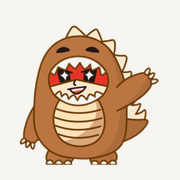
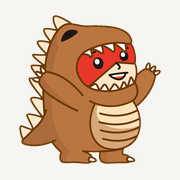
マスコット刷新＋「不用品処分」を「お庭の剪定・草刈り」へ全面入れ替え
- 新キャラクター画像に差し替え（背景透過処理・favicon/アイコン再生成）
- 個人ページ: 不用品処分セクションをチラシ準拠のお庭の剪定・草刈りセクションに変更
  （お悩み例・対応作業タグ・担当:山本の紹介・フリーダイヤル0120-542-587）
- 「不用品」表現をサイト全体から削除し「お片付け・運搬」等に置き換え
- 全ページのフッターと会社概要に許可番号（熊本市一般廃棄物収集運搬業許可
  第21RH-82号）・東京海上日動 貨物賠償保険・フリーダイヤルを追加
- お問い合わせ: チェックボックスとFAQをお庭・お片付け向けに更新

Claude-Session: https://claude.ai/code/session_01SCBWucPwkj8HPJY767A5GM

diff --git a/person.html b/person.html
@@ -4,12 +4,12 @@
 <meta charset="utf-8">
 <meta name="viewport" content="width=device-width, initial-scale=1">
 <title>個人のお客様｜カーゴレックス（熊本のお引越し・生活支援）</title>
-<meta name="description" content="お引越し・不用品処分・エアコン工事・ハウスクリーニング・草取りや庭のお手入れまで。熊本のカーゴレックスがお客様の日常の「困った」にお応えします。">
+<meta name="description" content="お庭の剪定・草刈りからお引越し・エアコン工事・ハウスクリーニングまで。熊本のカーゴレックスがお客様の日常の「困った」にお応えします。">
 <link rel="canonical" href="https://konohito.github.io/cargolex-hp/person.html">
 <meta property="og:type" content="website">
 <meta property="og:site_name" content="カーゴレックス">
 <meta property="og:title" content="個人のお客様｜カーゴレックス">
-<meta property="og:description" content="お引越し・不用品処分・エアコン・クリーニング・草取り。日常の「困った」にお応えします。">
+<meta property="og:description" content="お庭の剪定・草刈り・お引越し・エアコン・クリーニング。日常の「困った」にお応えします。">
 <meta property="og:url" content="https://konohito.github.io/cargolex-hp/person.html">
 <meta property="og:image" content="https://konohito.github.io/cargolex-hp/assets/img/og-image.jpg">
 <meta property="og:locale" content="ja_JP">
@@ -139,25 +139,39 @@
 </section>
 
 <section class="wrap sec">
-  <div style="display:flex;align-items:baseline;gap:18px;flex-wrap:wrap"><h2 class="h2">不用品処分のお手伝い</h2><span class="kick">Disposal</span></div>
-  <p class="lead">お引越しの際にいらなくなった家財や、一人では運べない不用品等の処分のお手伝いを致します。</p>
-  <div class="cells">
-    <div class="cell">建て替えや、解体前に全ての家財を処分したい。</div>
-    <div class="cell">引越しの際、いらなくなった家財を処分したい。</div>
-    <div class="cell">一人では運べないほどの重さがある。</div>
-    <div class="cell">物置を解体して処分してほしい。</div>
-    <div class="cell">新しい家電を買ったので古いものを処分したい。</div>
-    <div class="cell">思い切って断捨離をしたい。</div>
-    <div class="cell">粗大ゴミを捨てる場まで運んで欲しい。</div>
-    <div class="cell">切った枝木をまとめて処分してほしい。</div>
-    <div class="cell">故人の遺品整理を手伝って欲しい。</div>
+  <div style="display:flex;align-items:baseline;gap:18px;flex-wrap:wrap"><h2 class="h2">お庭の剪定・草刈り</h2><span class="kick">Garden</span></div>
+  <p class="lead">「雑草・枝が伸び放題…」のお庭、スッキリ・キレイにしませんか？刈った草や枝の処分まで含めてお引き受けします。</p>
+  <div class="split" style="grid-template-columns:1fr 1fr;gap:44px">
+    <div>
+      <div class="kick" style="margin-bottom:14px">お庭のこんなお悩みありませんか？</div>
+      <div class="row">草取りをしないと虫が出てしまう…。</div>
+      <div class="row">木がお隣まで伸びてしまっている…。</div>
+      <div class="row">昔は枝切りもしていたけれど、今はもうできなくなった…。</div>
+      <div class="row">空き地・駐車場・畑の草を定期的に刈ってほしい。</div>
+      <div class="row">実家や空き家のお庭の手入れを代わりにしてほしい。</div>
+      <div class="row" style="border-bottom:1px solid var(--color-divider)">刈った草や切った枝の処分までお願いしたい。</div>
+    </div>
+    <div>
+      <div class="kick" style="margin-bottom:14px">対応できる作業</div>
+      <div style="display:flex;gap:8px;flex-wrap:wrap">
+        <span class="tag tag-outline">草取り</span><span class="tag tag-outline">草刈り</span><span class="tag tag-outline">枝切</span><span class="tag tag-outline">剪定</span><span class="tag tag-outline">伐採</span><span class="tag tag-outline">除草剤散布</span><span class="tag tag-outline">防草シート</span><span class="tag tag-outline">ハチの巣駆除</span><span class="tag tag-outline">庭の片付け</span><span class="tag tag-outline">物置撤去・解体</span>
+      </div>
+      <div class="blueprint" style="padding:22px 24px;background:var(--color-neutral-100);margin-top:22px">
+        <i class="corner tl"></i><i class="corner tr"></i><i class="corner bl"></i><i class="corner br"></i>
+        <p style="font-size:14px;line-height:2;margin:0">担当の山本が、お客様の「困った…」を親身になってお聞きします。引越しやエアコン工事など「ついでにこれも頼みたい」も大歓迎。<strong>「お庭の件で」</strong>とお気軽にお問い合わせください。</p>
+        <a href="tel:0120542587" style="display:grid;line-height:1.05;color:var(--color-text);margin-top:14px">
+          <span style="font-size:11px;letter-spacing:.16em;color:var(--color-accent-700)">フリーダイヤル（通話無料）</span>
+          <span style="font-family:'Barlow Condensed',sans-serif;font-weight:700;font-size:34px;letter-spacing:.02em;margin-top:4px">0120-542-587</span>
+        </a>
+      </div>
+    </div>
   </div>
-  <p style="font-size:12.5px;line-height:1.85;margin-top:18px;opacity:.68">※ 鉄・紙・家電・衣類等の仕分けを事前に行っていただけると当日の作業がスムーズに進みます。</p>
+  <p style="font-size:12.5px;line-height:1.85;margin-top:18px;opacity:.68">※ お見積り・ご相談は無料です。熊本市一般廃棄物収集運搬業許可（第21RH-82号）／東京海上日動 貨物賠償保険加入。</p>
 </section>
 
 <section class="wrap sec">
   <div style="display:flex;align-items:baseline;gap:18px;flex-wrap:wrap"><h2 class="h2">暮らしのサービス</h2><span class="kick">Life support</span></div>
-  <p class="lead">エアコンからお庭のお手入れ、住まいの修繕まで。気になったことをお任せください。</p>
+  <p class="lead">エアコンからお片付け、住まいの修繕まで。気になったことをお任せください。</p>
   <div class="g2">
     <article class="card blueprint detail">
       <i class="corner tl"></i><i class="corner tr"></i><i class="corner bl"></i><i class="corner br"></i>
@@ -179,9 +193,9 @@
     </article>
     <article class="card blueprint detail">
       <i class="corner tl"></i><i class="corner tr"></i><i class="corner bl"></i><i class="corner br"></i>
-      <div class="card-kicker" style="color:var(--red7)">Garden</div>
-      <h3>草取り・庭のお手入れ</h3>
-      <p>ご希望の箇所をきれいにいたします。草取りや草刈り、剪定や防草シートの設置・植木の剪定もいたします。刈った草の処分まで含めてお引き受けします。</p>
+      <div class="card-kicker" style="color:var(--red7)">Tidy up</div>
+      <h3>お片付け・運搬のお手伝い</h3>
+      <p>お部屋やお庭の片付け、家具の移動、一人では運べない大きな荷物の運搬をお手伝いします。物置の撤去・解体もお任せください。</p>
     </article>
     <article class="card blueprint detail">
       <i class="corner tl"></i><i class="corner tr"></i><i class="corner bl"></i><i class="corner br"></i>
@@ -203,7 +217,7 @@
     <div style="display:flex;align-items:baseline;gap:18px;flex-wrap:wrap">
       <h2 class="h2" style="color:#fff">お任せください！！</h2>
       <span class="kick" style="color:var(--color-accent-300)">Leave it to us</span>
-      <img src="assets/img/mascot.png" alt="カーゴレックスのマスコット" width="513" height="460" loading="lazy" style="width:96px;height:auto;margin-left:auto">
+      <img src="assets/img/mascot.png" alt="カーゴレックスのマスコット" width="437" height="460" loading="lazy" style="width:96px;height:auto;margin-left:auto">
     </div>
     <p style="font-size:17px;line-height:2;margin:22px 0 0;max-width:60ch;color:rgba(238,241,236,.86)">「困ったなぁ」「自分でやったら大変だなぁ」「こんなことどこに頼めばいいんだろう」。普段の暮らしの中でこんなちょっとしたことが気になること、カーゴレックスにお任せください。</p>
   </div>
@@ -267,13 +281,13 @@
     <div class="split" style="gap:56px">
       <div>
         <div style="display:flex;align-items:center;gap:12px">
-          <img src="assets/img/mascot.png" alt="" width="513" height="460" loading="lazy" style="width:56px;height:56px;object-fit:contain">
+          <img src="assets/img/mascot.png" alt="" width="437" height="460" loading="lazy" style="width:56px;height:56px;object-fit:contain">
           <span style="display:grid;line-height:1.05">
             <span style="font-size:10px;letter-spacing:.18em;color:var(--color-accent-300)">カーゴレックス</span>
             <span style="font-family:'Barlow Condensed',sans-serif;font-weight:700;font-size:27px;letter-spacing:.02em">CARGOLEX</span>
           </span>
         </div>
-        <p style="font-size:13.5px;line-height:1.95;margin:22px 0 0;color:rgba(238,241,236,.72)">〒861-4206 熊本県熊本市南区<br>TEL. 080-3978-0369<br>営業時間 8:00〜20:00（年中無休）</p>
+        <p style="font-size:13.5px;line-height:1.95;margin:22px 0 0;color:rgba(238,241,236,.72)">〒861-4206 熊本県熊本市南区<br>フリーダイヤル 0120-542-587／TEL. 080-3978-0369<br>営業時間 8:00〜20:00（年中無休）<br>熊本市一般廃棄物収集運搬業許可（第21RH-82号）<br>東京海上日動 貨物賠償保険加入</p>
         <div style="display:flex;gap:18px;flex-wrap:wrap;margin-top:22px;font-size:13px">
           <a href="index.html" style="color:var(--color-accent-300)">トップページ</a>
           <a href="business.html" style="color:var(--color-accent-300)">法人のお客様</a>

diff --git a/index.html b/index.html
@@ -4,7 +4,7 @@
 <meta charset="utf-8">
 <meta name="viewport" content="width=device-width, initial-scale=1">
 <title>カーゴレックス｜熊本の軽貨物運送支援・生活支援サービス</title>
-<meta name="description" content="熊本県を中心に軽貨物運送支援事業と生活支援サービス事業を行うカーゴレックス。チャーター便・緊急配達・お引越し・不用品処分など、お客様の「困った」に親切・丁寧・適正価格でお応えします。">
+<meta name="description" content="熊本県を中心に軽貨物運送支援事業と生活支援サービス事業を行うカーゴレックス。チャーター便・緊急配達・お引越し・お庭の剪定・草刈りなど、お客様の「困った」に親切・丁寧・適正価格でお応えします。">
 <link rel="canonical" href="https://konohito.github.io/cargolex-hp/">
 <meta property="og:type" content="website">
 <meta property="og:site_name" content="カーゴレックス">
@@ -143,7 +143,7 @@
       <i class="corner tl"></i><i class="corner tr"></i><i class="corner bl"></i><i class="corner br"></i>
       <img src="assets/img/photo-a.webp" alt="荷台に家財を丁寧に積み込むスタッフ" width="1374" height="778" fetchpriority="high" style="width:100%;height:clamp(300px,42vw,470px);object-fit:cover">
       <figcaption style="position:absolute;left:0;bottom:0;background:var(--color-accent-900);color:#eef1ec;font-size:11px;letter-spacing:.16em;padding:8px 14px;text-transform:uppercase">運び屋 CARGOLEX</figcaption>
-      <img src="assets/img/mascot.png" alt="カーゴレックスのマスコット" width="513" height="460" style="position:absolute;right:-14px;bottom:-18px;width:clamp(96px,13vw,148px);height:auto;filter:drop-shadow(0 6px 14px rgba(0,0,0,.18))">
+      <img src="assets/img/mascot.png" alt="カーゴレックスのマスコット" width="437" height="460" style="position:absolute;right:-14px;bottom:-18px;width:clamp(96px,13vw,148px);height:auto;filter:drop-shadow(0 6px 14px rgba(0,0,0,.18))">
     </figure>
   </div>
 </section>
@@ -239,7 +239,7 @@
         <h3 style="font-size:30px;margin:8px 0 12px">個人のお客様</h3>
         <p style="font-size:14px;line-height:1.9;margin:0 0 16px;opacity:.82">お客様の日常の「困った」に「こんなことどこに頼めばいいの…」にカーゴレックスはお応えします。専門の知識や実績をもった協力店様が作業を行うため、最高峰のサービスと技術をご提供いたします。</p>
         <div style="display:flex;gap:8px;flex-wrap:wrap">
-          <span class="tag tag-outline">お引越し</span><span class="tag tag-outline">不用品処分</span><span class="tag tag-outline">エアコン</span><span class="tag tag-outline">クリーニング</span><span class="tag tag-outline">草取り・剪定</span>
+          <span class="tag tag-outline">お引越し</span><span class="tag tag-outline">お庭の剪定・草刈り</span><span class="tag tag-outline">エアコン</span><span class="tag tag-outline">クリーニング</span><span class="tag tag-outline">お片付け</span>
         </div>
         <div style="margin-top:20px;font-size:14px;font-weight:600;color:var(--color-accent-700)">サービス詳細を見る →</div>
       </div>
@@ -263,7 +263,7 @@
       <div style="border-top:1px solid rgba(238,241,236,.3);padding-top:20px">
         <div class="num" style="color:var(--yl)">02</div>
         <h3 style="font-size:23px;margin:12px 0 10px;color:#fff">運送と生活支援をまとめて</h3>
-        <p style="font-size:13.5px;line-height:1.95;margin:0;color:rgba(238,241,236,.78)">引越しとエアコン移設、不用品の処分まで。業者を何社も探す必要はありません。</p>
+        <p style="font-size:13.5px;line-height:1.95;margin:0;color:rgba(238,241,236,.78)">引越しとエアコン移設、お庭のお手入れやお片付けまで。業者を何社も探す必要はありません。</p>
       </div>
       <div style="border-top:1px solid rgba(238,241,236,.3);padding-top:20px">
         <div class="num" style="color:var(--yl)">03</div>
@@ -368,13 +368,13 @@
     <div class="split" style="gap:56px">
       <div>
         <div style="display:flex;align-items:center;gap:12px">
-          <img src="assets/img/mascot.png" alt="" width="513" height="460" loading="lazy" style="width:56px;height:56px;object-fit:contain">
+          <img src="assets/img/mascot.png" alt="" width="437" height="460" loading="lazy" style="width:56px;height:56px;object-fit:contain">
           <span style="display:grid;line-height:1.05">
             <span style="font-size:10px;letter-spacing:.18em;color:var(--color-accent-300)">カーゴレックス</span>
             <span style="font-family:'Barlow Condensed',sans-serif;font-weight:700;font-size:27px;letter-spacing:.02em">CARGOLEX</span>
           </span>
         </div>
-        <p style="font-size:13.5px;line-height:1.95;margin:22px 0 0;max-width:44ch;color:rgba(238,241,236,.72)">〒861-4206 熊本県熊本市南区<br>TEL. 080-3978-0369<br>営業時間 8:00〜20:00（年中無休）</p>
+        <p style="font-size:13.5px;line-height:1.95;margin:22px 0 0;max-width:44ch;color:rgba(238,241,236,.72)">〒861-4206 熊本県熊本市南区<br>フリーダイヤル 0120-542-587／TEL. 080-3978-0369<br>営業時間 8:00〜20:00（年中無休）<br>熊本市一般廃棄物収集運搬業許可（第21RH-82号）<br>東京海上日動 貨物賠償保険加入</p>
         <div style="display:flex;gap:18px;flex-wrap:wrap;margin-top:22px;font-size:13px">
           <a href="index.html" style="color:var(--color-accent-300)">トップページ</a>
           <a href="business.html" style="color:var(--color-accent-300)">法人のお客様</a>
@@ -388,7 +388,7 @@
       <div>
         <div class="kick" style="color:var(--color-accent-300);margin-bottom:8px">事業内容</div>
         <div class="row" style="border-color:rgba(238,241,236,.24)"><span style="font-size:14px">軽貨物運送支援事業</span><span style="font-size:12.5px;color:rgba(238,241,236,.6)">チャーター便・スポット便・定期便・ハンドキャリー</span></div>
-        <div class="row" style="border-color:rgba(238,241,236,.24);border-bottom:1px solid rgba(238,241,236,.24)"><span style="font-size:14px">生活支援サービス事業</span><span style="font-size:12.5px;color:rgba(238,241,236,.6)">引越し・不用品処分・エアコン・清掃・草取り</span></div>
+        <div class="row" style="border-color:rgba(238,241,236,.24);border-bottom:1px solid rgba(238,241,236,.24)"><span style="font-size:14px">生活支援サービス事業</span><span style="font-size:12.5px;color:rgba(238,241,236,.6)">剪定・草刈り・引越し・エアコン・清掃・お片付け</span></div>
       </div>
     </div>
     <div style="display:flex;justify-content:space-between;gap:16px;flex-wrap:wrap;margin-top:44px;padding-top:18px;border-top:1px solid rgba(238,241,236,.24);font-size:11.5px;color:rgba(238,241,236,.55)">

diff --git a/contact.html b/contact.html
@@ -133,8 +133,8 @@
         <legend style="font-size:12px;margin-bottom:5px;color:rgba(27,33,29,.7);padding:0">お問い合わせ目的（複数選択可）</legend>
         <div class="g2" style="gap:10px;margin-top:2px">
           <label class="chk"><input type="checkbox" name="お問い合わせ目的" value="お引越し"><span>お引越し</span></label>
-          <label class="chk"><input type="checkbox" name="お問い合わせ目的" value="不用品処分"><span>不用品処分</span></label>
-          <label class="chk"><input type="checkbox" name="お問い合わせ目的" value="お庭の草刈り・剪定"><span>お庭の草刈り・剪定</span></label>
+          <label class="chk"><input type="checkbox" name="お問い合わせ目的" value="お庭の剪定・草刈り"><span>お庭の剪定・草刈り</span></label>
+          <label class="chk"><input type="checkbox" name="お問い合わせ目的" value="お片付け・家具移動"><span>お片付け・家具移動</span></label>
           <label class="chk"><input type="checkbox" name="お問い合わせ目的" value="チャーター便"><span>チャーター便</span></label>
           <label class="chk"><input type="checkbox" name="お問い合わせ目的" value="緊急配達・定期便"><span>緊急配達・定期便</span></label>
           <label class="chk"><input type="checkbox" name="お問い合わせ目的" value="その他サービス"><span>その他サービス</span></label>
@@ -171,8 +171,8 @@
         <p style="font-size:14px;line-height:1.95;margin:12px 0 0 26px;opacity:.84">年中無休で受け付けています。なお、お引越し運賃は土曜・日曜・祝祭日が2割増、早朝・深夜（20:00〜翌7:00）が1割増となります。</p>
       </details>
       <details class="qa">
-        <summary><span style="font-family:'Barlow Condensed',sans-serif;color:var(--red7)">Q</span>引越しと同時に不用品も処分できますか？</summary>
-        <p style="font-size:14px;line-height:1.95;margin:12px 0 0 26px;opacity:.84">可能です。搬出と同時にお引き取りしますので、別途手配の手間がかかりません。鉄・紙・家電・衣類等の仕分けを事前に行っていただけると当日の作業がスムーズに進みます。</p>
+        <summary><span style="font-family:'Barlow Condensed',sans-serif;color:var(--red7)">Q</span>刈った草や剪定した枝の処分もお願いできますか？</summary>
+        <p style="font-size:14px;line-height:1.95;margin:12px 0 0 26px;opacity:.84">はい、作業とあわせてまとめてお引き受けします（熊本市一般廃棄物収集運搬業許可 第21RH-82号）。処分先を別途手配していただく必要はありません。</p>
       </details>
       <details class="qa">
         <summary><span style="font-family:'Barlow Condensed',sans-serif;color:var(--red7)">Q</span>熊本県外への配送もお願いできますか？</summary>
@@ -193,13 +193,13 @@
     <div class="split" style="grid-template-columns:1fr 1fr;gap:56px">
       <div>
         <div style="display:flex;align-items:center;gap:12px">
-          <img src="assets/img/mascot.png" alt="" width="513" height="460" loading="lazy" style="width:56px;height:56px;object-fit:contain">
+          <img src="assets/img/mascot.png" alt="" width="437" height="460" loading="lazy" style="width:56px;height:56px;object-fit:contain">
           <span style="display:grid;line-height:1.05">
             <span style="font-size:10px;letter-spacing:.18em;color:var(--color-accent-300)">カーゴレックス</span>
             <span style="font-family:'Barlow Condensed',sans-serif;font-weight:700;font-size:27px;letter-spacing:.02em">CARGOLEX</span>
           </span>
         </div>
-        <p style="font-size:13.5px;line-height:1.95;margin:22px 0 0;color:rgba(238,241,236,.72)">〒861-4206 熊本県熊本市南区<br>TEL. 080-3978-0369<br>営業時間 8:00〜20:00（年中無休）</p>
+        <p style="font-size:13.5px;line-height:1.95;margin:22px 0 0;color:rgba(238,241,236,.72)">〒861-4206 熊本県熊本市南区<br>フリーダイヤル 0120-542-587／TEL. 080-3978-0369<br>営業時間 8:00〜20:00（年中無休）<br>熊本市一般廃棄物収集運搬業許可（第21RH-82号）<br>東京海上日動 貨物賠償保険加入</p>
         <div style="display:flex;gap:18px;flex-wrap:wrap;margin-top:22px;font-size:13px">
           <a href="index.html" style="color:var(--color-accent-300)">トップページ</a>
           <a href="business.html" style="color:var(--color-accent-300)">法人のお客様</a>

diff --git a/company.html b/company.html
@@ -119,8 +119,10 @@
         <div class="row"><span class="rl">代表者</span><span class="rv">山本 雄久</span></div>
         <div class="row"><span class="rl">所在地</span><span class="rv">〒861-4206<br>熊本県熊本市南区</span></div>
         <div class="row"><span class="rl">設立</span><span class="rv">2021年</span></div>
-        <div class="row"><span class="rl">電話番号</span><a class="rv" href="tel:08039780369">080-3978-0369（担当直通）</a></div>
+        <div class="row"><span class="rl">電話番号</span><span class="rv"><a href="tel:0120542587" style="color:inherit">0120-542-587（フリーダイヤル）</a><br><a href="tel:08039780369" style="color:inherit">080-3978-0369（担当直通）</a></span></div>
         <div class="row"><span class="rl">営業時間</span><span class="rv">8:00〜20:00（年中無休）</span></div>
+        <div class="row"><span class="rl">許可</span><span class="rv">熊本市一般廃棄物収集運搬業許可<br>（第21RH-82号）</span></div>
+        <div class="row"><span class="rl">加入保険</span><span class="rv">東京海上日動 貨物賠償保険</span></div>
         <div class="row" style="border-bottom:1px solid var(--color-divider)"><span class="rl">事業内容</span><span class="rv">軽貨物運送支援事業<br>生活支援サービス事業</span></div>
       </div>
     </div>
@@ -141,7 +143,7 @@
 </section>
 
 <section class="wrap sec">
-  <div style="display:flex;align-items:center;gap:18px;flex-wrap:wrap"><h2 class="h2">こんな会社です。</h2><span class="kick">Our story</span><img src="assets/img/mascot.png" alt="カーゴレックスのマスコット" width="513" height="460" loading="lazy" style="width:84px;height:auto;margin-left:auto"></div>
+  <div style="display:flex;align-items:center;gap:18px;flex-wrap:wrap"><h2 class="h2">こんな会社です。</h2><span class="kick">Our story</span><img src="assets/img/mascot.png" alt="カーゴレックスのマスコット" width="437" height="460" loading="lazy" style="width:84px;height:auto;margin-left:auto"></div>
   <div class="g3" style="margin-top:34px">
     <article>
       <div class="num">01</div>
@@ -252,13 +254,13 @@
     <div class="split" style="gap:56px">
       <div>
         <div style="display:flex;align-items:center;gap:12px">
-          <img src="assets/img/mascot.png" alt="" width="513" height="460" loading="lazy" style="width:56px;height:56px;object-fit:contain">
+          <img src="assets/img/mascot.png" alt="" width="437" height="460" loading="lazy" style="width:56px;height:56px;object-fit:contain">
           <span style="display:grid;line-height:1.05">
             <span style="font-size:10px;letter-spacing:.18em;color:var(--color-accent-300)">カーゴレックス</span>
             <span style="font-family:'Barlow Condensed',sans-serif;font-weight:700;font-size:27px;letter-spacing:.02em">CARGOLEX</span>
           </span>
         </div>
-        <p style="font-size:13.5px;line-height:1.95;margin:22px 0 0;color:rgba(238,241,236,.72)">〒861-4206 熊本県熊本市南区<br>TEL. 080-3978-0369<br>営業時間 8:00〜20:00（年中無休）</p>
+        <p style="font-size:13.5px;line-height:1.95;margin:22px 0 0;color:rgba(238,241,236,.72)">〒861-4206 熊本県熊本市南区<br>フリーダイヤル 0120-542-587／TEL. 080-3978-0369<br>営業時間 8:00〜20:00（年中無休）<br>熊本市一般廃棄物収集運搬業許可（第21RH-82号）<br>東京海上日動 貨物賠償保険加入</p>
         <div style="display:flex;gap:18px;flex-wrap:wrap;margin-top:22px;font-size:13px">
           <a href="index.html" style="color:var(--color-accent-300)">トップページ</a>
           <a href="business.html" style="color:var(--color-accent-300)">法人のお客様</a>

diff --git a/business.html b/business.html
@@ -243,13 +243,13 @@
     <div class="split" style="gap:56px">
       <div>
         <div style="display:flex;align-items:center;gap:12px">
-          <img src="assets/img/mascot.png" alt="" width="513" height="460" loading="lazy" style="width:56px;height:56px;object-fit:contain">
+          <img src="assets/img/mascot.png" alt="" width="437" height="460" loading="lazy" style="width:56px;height:56px;object-fit:contain">
           <span style="display:grid;line-height:1.05">
             <span style="font-size:10px;letter-spacing:.18em;color:var(--color-accent-300)">カーゴレックス</span>
             <span style="font-family:'Barlow Condensed',sans-serif;font-weight:700;font-size:27px;letter-spacing:.02em">CARGOLEX</span>
           </span>
         </div>
-        <p style="font-size:13.5px;line-height:1.95;margin:22px 0 0;color:rgba(238,241,236,.72)">〒861-4206 熊本県熊本市南区<br>TEL. 080-3978-0369<br>営業時間 8:00〜20:00（年中無休）</p>
+        <p style="font-size:13.5px;line-height:1.95;margin:22px 0 0;color:rgba(238,241,236,.72)">〒861-4206 熊本県熊本市南区<br>フリーダイヤル 0120-542-587／TEL. 080-3978-0369<br>営業時間 8:00〜20:00（年中無休）<br>熊本市一般廃棄物収集運搬業許可（第21RH-82号）<br>東京海上日動 貨物賠償保険加入</p>
         <div style="display:flex;gap:18px;flex-wrap:wrap;margin-top:22px;font-size:13px">
           <a href="index.html" style="color:var(--color-accent-300)">トップページ</a>
           <a href="business.html" style="color:var(--color-accent-300)">法人のお客様</a>

diff --git a/price.html b/price.html
@@ -297,13 +297,13 @@
     <div class="split" style="gap:56px">
       <div>
         <div style="display:flex;align-items:center;gap:12px">
-          <img src="assets/img/mascot.png" alt="" width="513" height="460" loading="lazy" style="width:56px;height:56px;object-fit:contain">
+          <img src="assets/img/mascot.png" alt="" width="437" height="460" loading="lazy" style="width:56px;height:56px;object-fit:contain">
           <span style="display:grid;line-height:1.05">
             <span style="font-size:10px;letter-spacing:.18em;color:var(--color-accent-300)">カーゴレックス</span>
             <span style="font-family:'Barlow Condensed',sans-serif;font-weight:700;font-size:27px;letter-spacing:.02em">CARGOLEX</span>
           </span>
         </div>
-        <p style="font-size:13.5px;line-height:1.95;margin:22px 0 0;color:rgba(238,241,236,.72)">〒861-4206 熊本県熊本市南区<br>TEL. 080-3978-0369<br>営業時間 8:00〜20:00（年中無休）</p>
+        <p style="font-size:13.5px;line-height:1.95;margin:22px 0 0;color:rgba(238,241,236,.72)">〒861-4206 熊本県熊本市南区<br>フリーダイヤル 0120-542-587／TEL. 080-3978-0369<br>営業時間 8:00〜20:00（年中無休）<br>熊本市一般廃棄物収集運搬業許可（第21RH-82号）<br>東京海上日動 貨物賠償保険加入</p>
         <div style="display:flex;gap:18px;flex-wrap:wrap;margin-top:22px;font-size:13px">
           <a href="index.html" style="color:var(--color-accent-300)">トップページ</a>
           <a href="business.html" style="color:var(--color-accent-300)">法人のお客様</a>

diff --git a/404.html b/404.html
@@ -15,7 +15,7 @@
 <body>
 <main style="min-height:100vh;display:grid;place-items:center;padding:40px 20px">
   <div style="text-align:center;max-width:480px">
-    <img src="/cargolex-hp/assets/img/mascot.png" alt="" width="513" height="460" style="width:120px;height:auto;margin:0 auto 24px">
+    <img src="/cargolex-hp/assets/img/mascot.png" alt="" width="437" height="460" style="width:120px;height:auto;margin:0 auto 24px">
     <div style="font-family:'Barlow Condensed',sans-serif;font-weight:700;font-size:72px;line-height:1;color:var(--color-accent-300)">404</div>
     <h1 style="font-size:26px;margin:14px 0 12px">ページが見つかりません</h1>
     <p style="font-size:14.5px;line-height:2;opacity:.78;margin:0 0 28px">お探しのページは移動または削除された可能性があります。<br>お手数ですが、トップページからご覧ください。</p>
